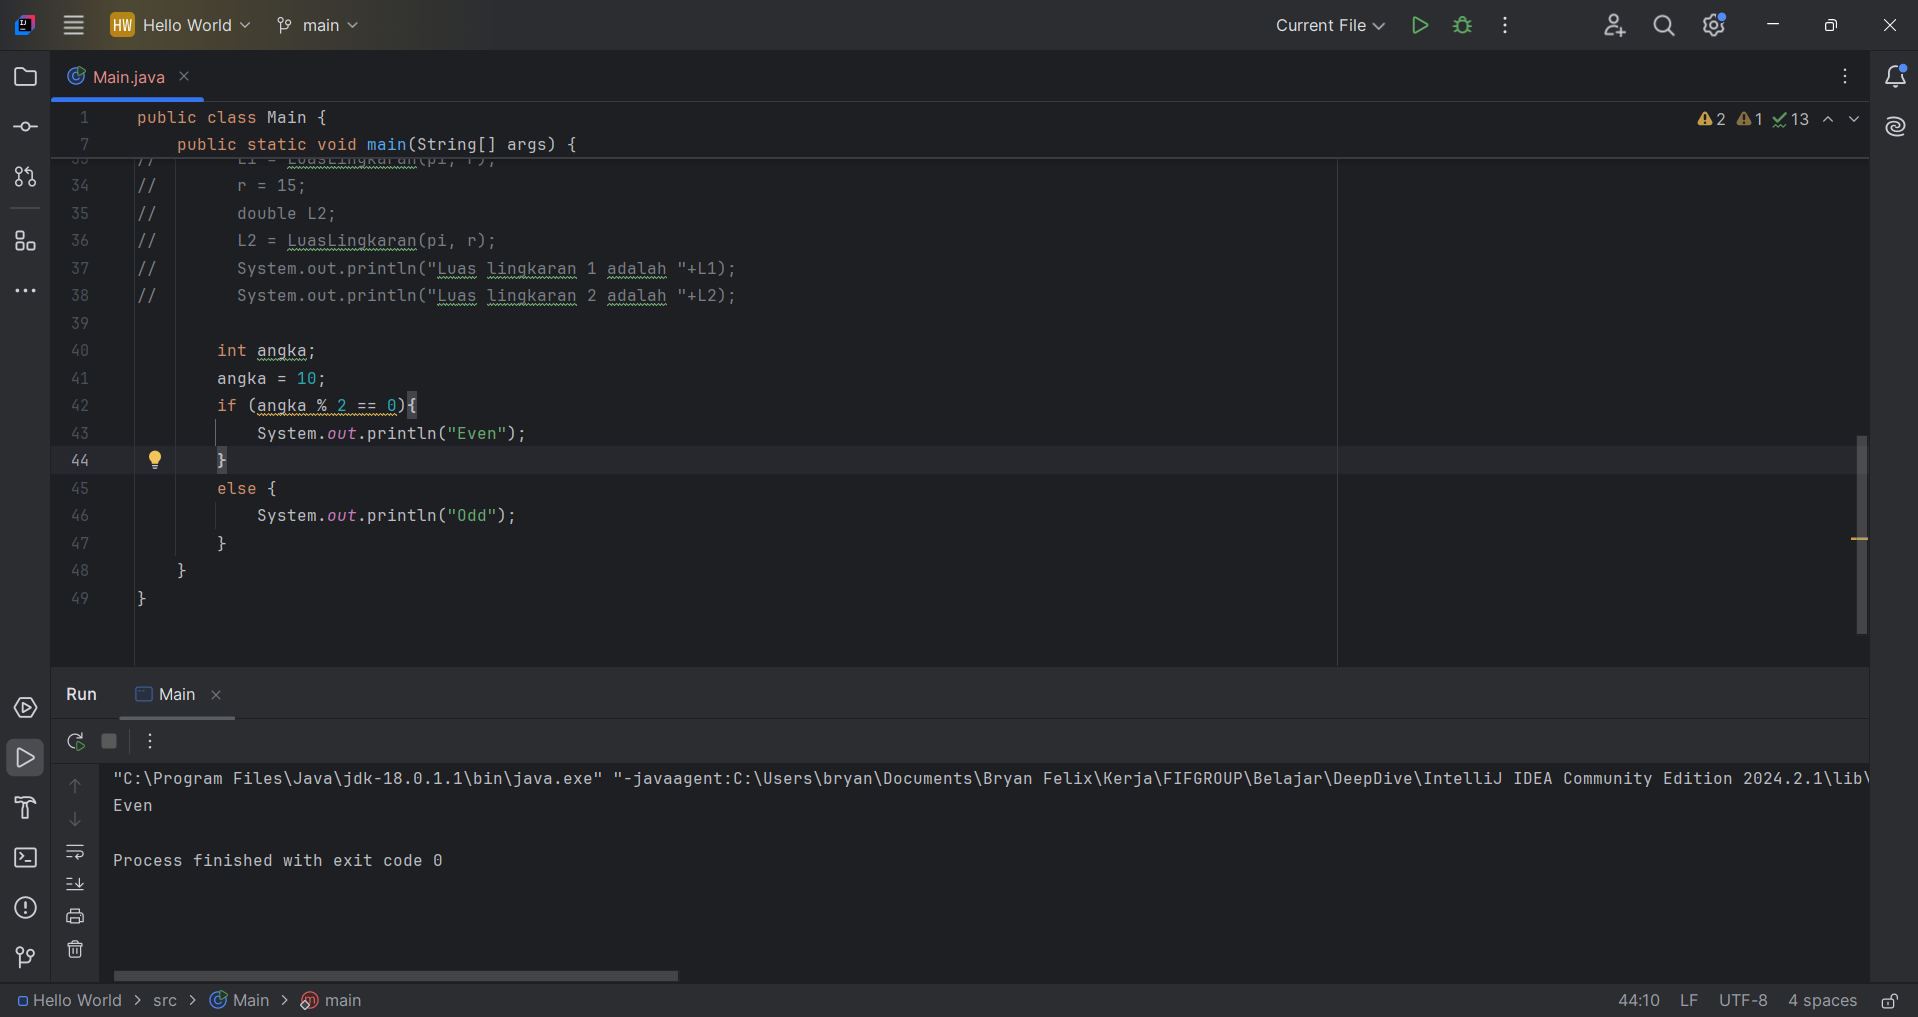
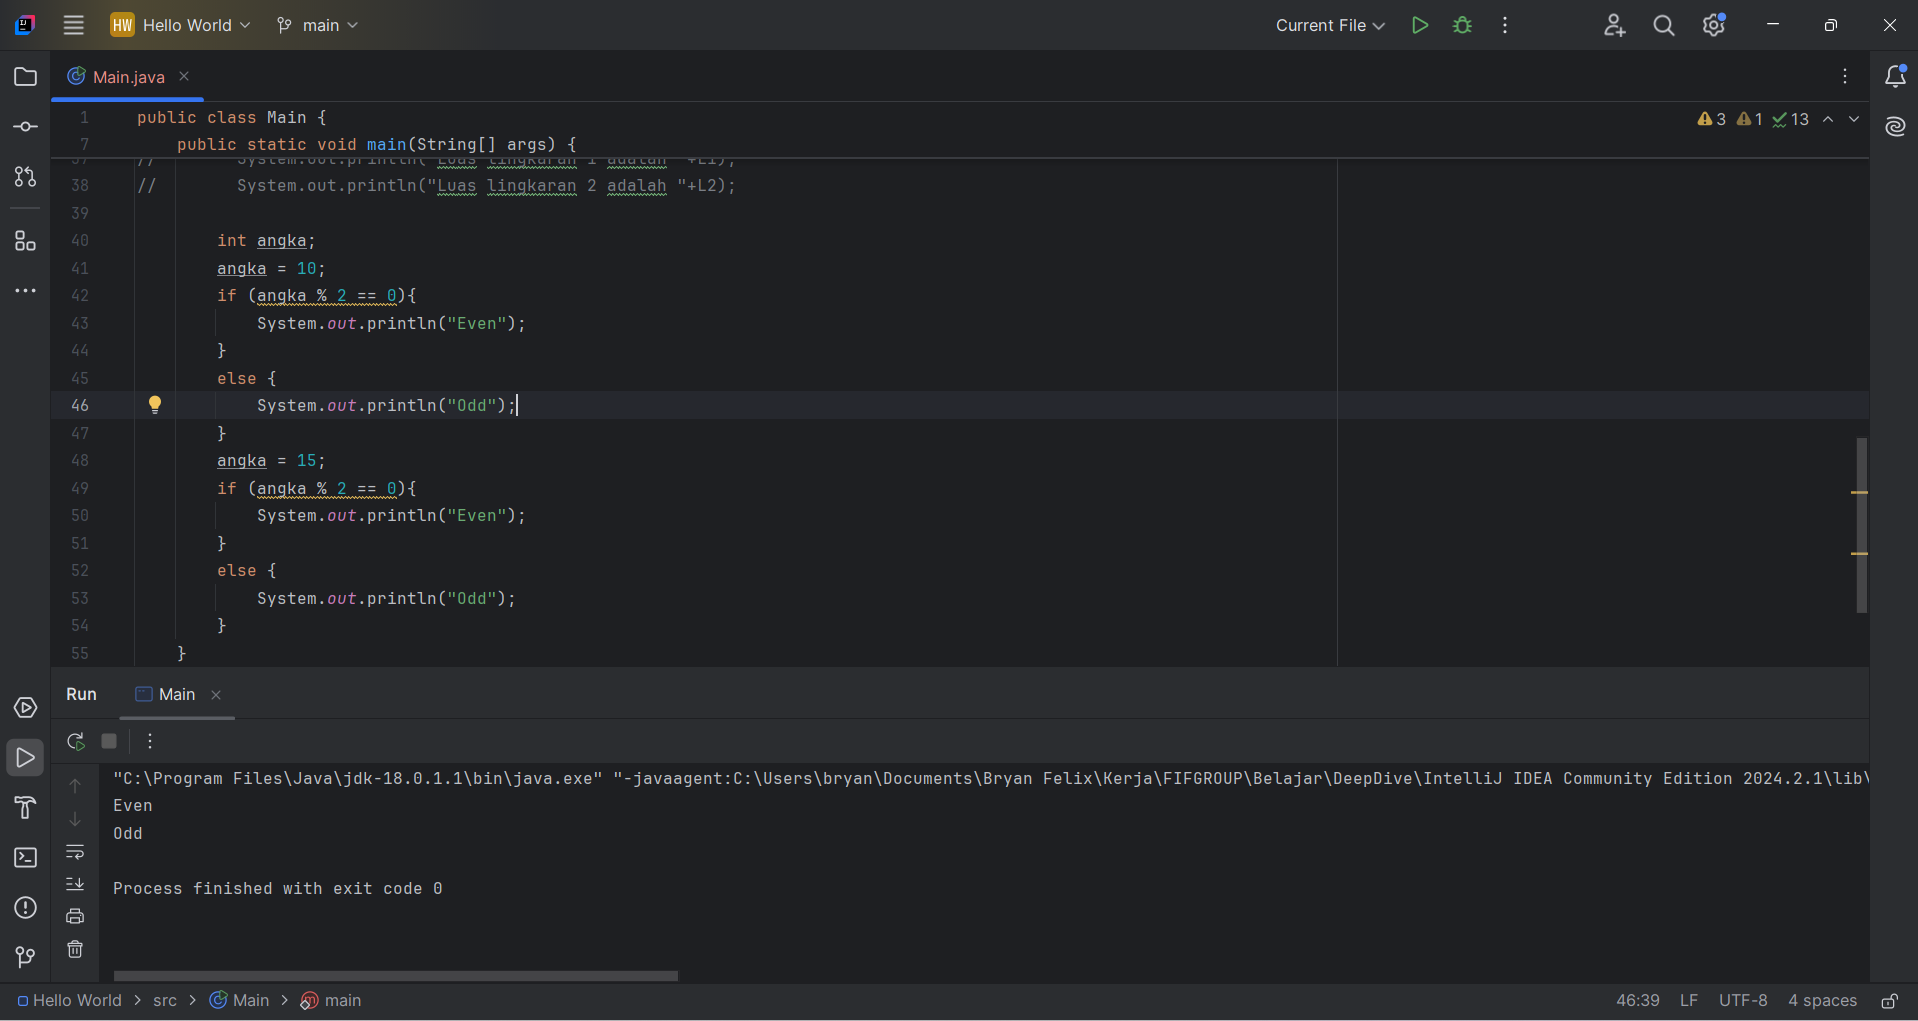
OddOrEven

diff --git a/pre-test/day-1/Hello World/src/Main.java b/pre-test/day-1/Hello World/src/Main.java
@@ -45,5 +45,12 @@ public class Main {
         else {
             System.out.println("Odd");
         }
+        angka = 15;
+        if (angka % 2 == 0){
+            System.out.println("Even");
+        }
+        else {
+            System.out.println("Odd");
+        }
     }
 }
